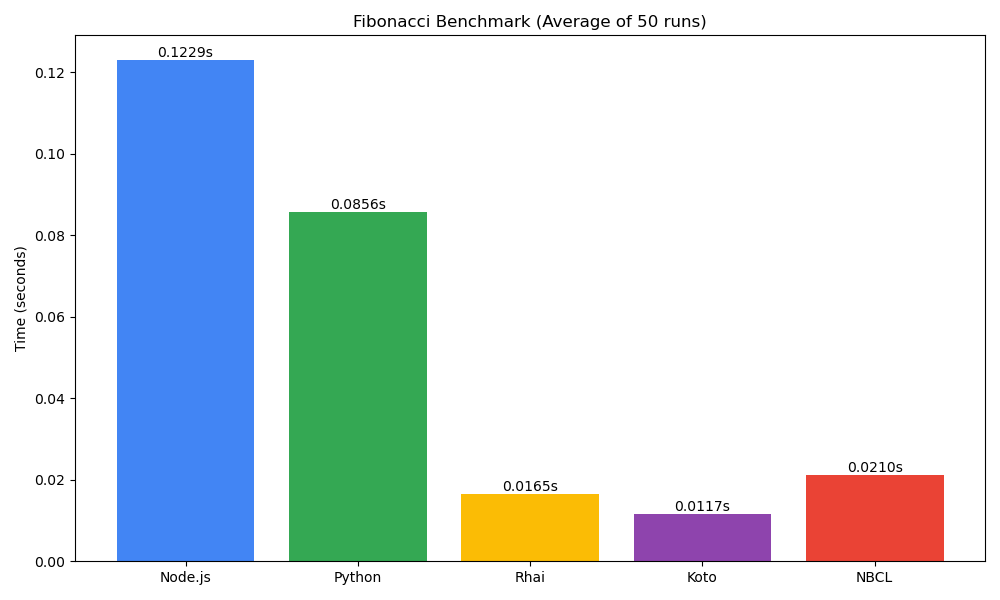
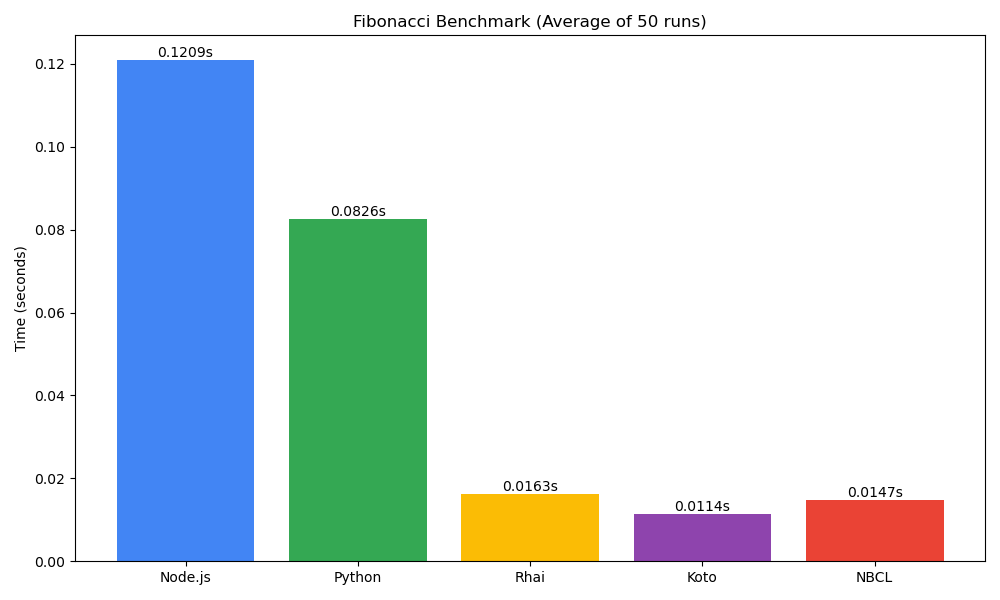
feat: add prime test and use 0.1.2 version of nbcl

diff --git a/bench/prime/prime.js b/bench/prime/prime.js
@@ -1,0 +1,19 @@
+function is_prime(n) {
+    if (n <= 1) { return false }
+    for (let i = 2; i < n; i++) {
+        if (n % i == 0) { return false }
+    }
+    return true;
+}
+
+function count_primes(limit) {
+    let count = 0;
+    for (let i = 1; i < limit; i++) {
+        if (is_prime(i)) {
+            count = count + 1;
+        }
+    }
+    return count;
+}
+
+console.log(count_primes(10000))

diff --git a/bench.py b/bench.py
@@ -3,22 +3,24 @@ import time
 import os
 import matplotlib.pyplot as plt
 
-RUNS = 50
+DEFAULT_RUNS = 50
+PRIME_RUNS = 10 
 NBCL_BIN = "target/release/nbcl-benchmarks"
 RESULTS_DIR = "results"
 BENCH_TASKS = {
     "fibonacci": "bench/fib/fibonacci",
     "fizzbuzz": "bench/fizzbuzz/fizzbuzz",
-    "parsing_speed": "bench/fib/fibonacci" # reuse fibonacci for parsing speed
+    "prime": "bench/prime/prime",
+    "parsing_speed": "bench/fib/fibonacci" 
 }
 
 os.makedirs(RESULTS_DIR, exist_ok=True)
 
-def run_benchmark(name, cmd):
-    print(f"  > {name}...", end=" ", flush=True)
+def run_benchmark(name, cmd, num_runs):
+    print(f"  > {name} (x{num_runs})...", end=" ", flush=True)
     times = []
     
-    for _ in range(RUNS):
+    for _ in range(num_runs):
         start = time.perf_counter()
         subprocess.run(cmd, stdout=subprocess.DEVNULL, stderr=subprocess.DEVNULL)
         end = time.perf_counter()
@@ -29,7 +31,9 @@ def run_benchmark(name, cmd):
     return avg
 
 def run_suite(task_name, file_base):
-    print(f"\nRunning {task_name.upper()} Suite:")
+    current_runs = PRIME_RUNS if task_name == "prime" else DEFAULT_RUNS
+    
+    print(f"\nRunning {task_name.upper()} Suite ({current_runs} runs):")
 
     is_parse_test = (task_name == "parsing_speed")
     extra_flags = ["--parse-only"] if is_parse_test else []
@@ -45,7 +49,7 @@ def run_suite(task_name, file_base):
     results = {}
     for name, cmd in commands.items():
         try:
-            results[name] = run_benchmark(name, cmd)
+            results[name] = run_benchmark(name, cmd, current_runs)
         except Exception as e:
             print(f"Failed to run {name}: {e}")
 
@@ -57,7 +61,7 @@ def run_suite(task_name, file_base):
     bars = plt.bar(names, averages, color=colors[:len(names)])
     
     plt.ylabel('Time (seconds)')
-    plt.title(f'{task_name.capitalize()} Benchmark (Average of {RUNS} runs)')
+    plt.title(f'{task_name.capitalize()} Benchmark (Average of {current_runs} runs)')
     
     for bar in bars:
         yval = bar.get_height()

diff --git a/bench/prime/prime.py b/bench/prime/prime.py
@@ -1,0 +1,14 @@
+def is_prime(n):
+    if n <= 1: return False
+    for i in range(2, int(n**0.5) + 1):
+        if n % i == 0: return False
+    return True
+
+def count_primes(limit):
+    count = 0
+    for i in range(1, limit):
+        if is_prime(i):
+            count += 1
+    return count
+
+print(count_primes(10000))

diff --git a/README.md b/README.md
@@ -16,6 +16,5 @@ This repository is used to benchmark NodeJS, [Python](https://www.python.org/), 
 
 Lower is better in all these scenarios:
 
-![fib](results/fibonacci_results.png)
-![fizzbuzz](results/fizzbuzz_results.png)
+![prime](results/prime_results.png)
 ![parse](results/parsing_speed_results.png)
